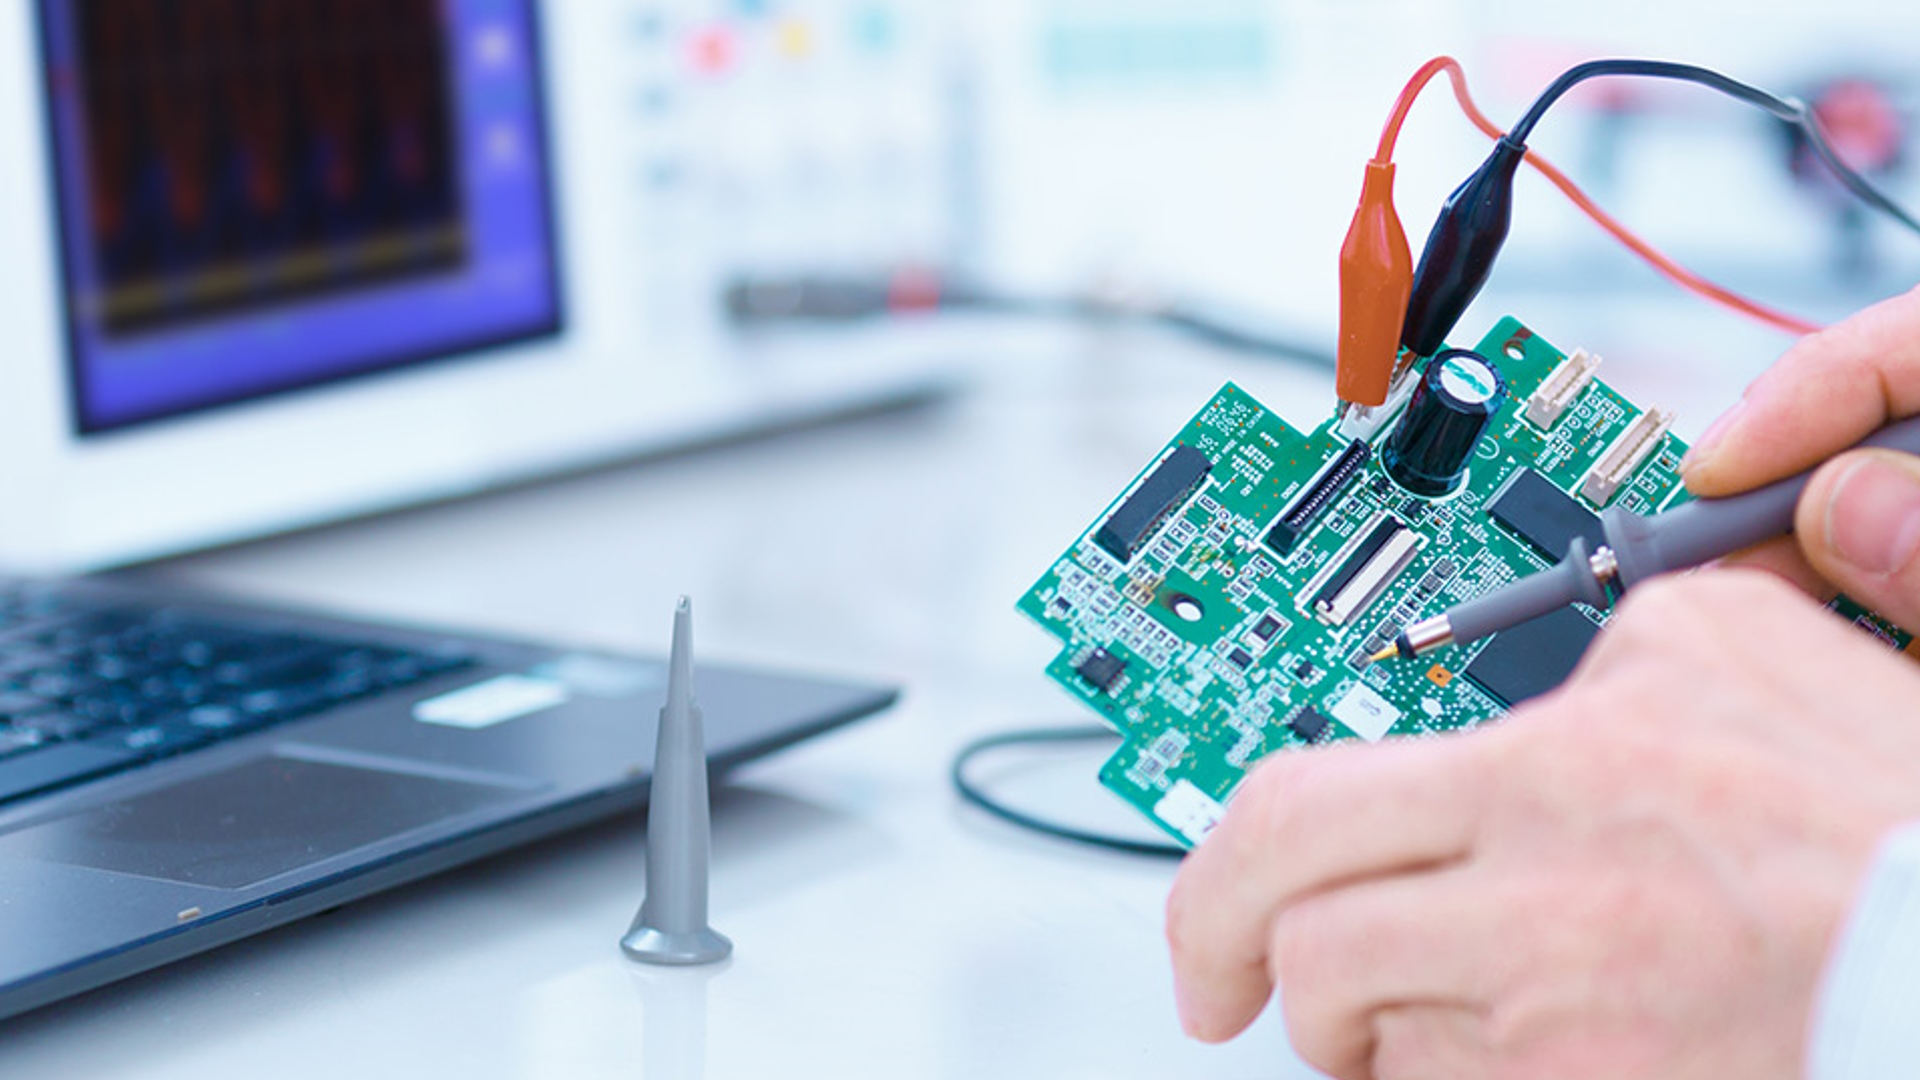
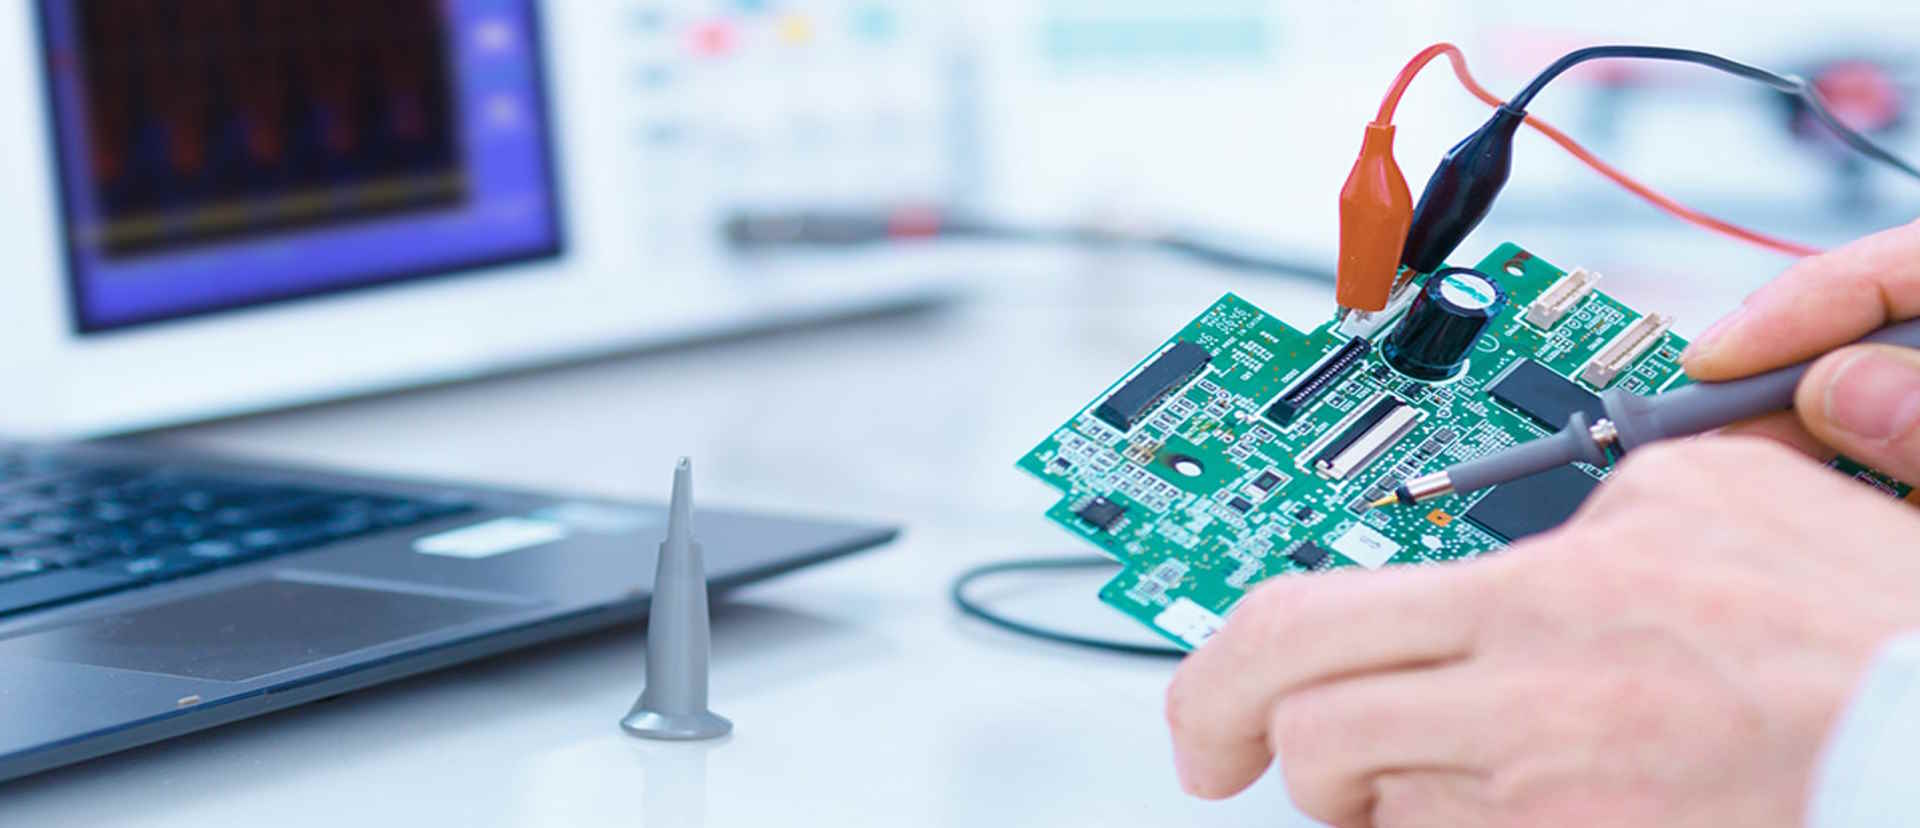
Image Adjustments

diff --git a/about.html b/about.html
@@ -99,15 +99,15 @@
                         <h5 class="fw-bold text-primary text-uppercase">About Us</h5>
                         <h1 class="mb-0">Signum is Formed</h1>
                     </div>
-                    <p class="mb-4">Ed Schwind, Vice President of Signum, </p>
                     <p class="mb-4">Doug Hauck, the President of Signum, has been a consultant in the electronics industry for over 25 years. He has a BSEE from NDSU and specialized in hardware design throughout his career. His experience spans every aspect of electronic hardware, from embedded microcontroller- and DSP-based systems to microwave and optical sensor design. He continues to be involved in all aspects of product development, including research and development, manufacturing, test and measurement, applications, human factors, and marketing to advanced planning and concepts.</p>
+                    <p class="mb-4">Ed Schwind, Vice President of Signum, has 15 years of experience </p>
                     <p class="mb-4">Signum's Fargo, ND Location, has a staff that specializes in embedded systems software as well as cloud services and software. The Fargo staff is the preferred partner for all software-related engineering for data management and visualization. As a certified Verizon Partner, they can provide cellular-based data communications using hardware co-developed and certified with manufacturing capabilities in the Richardton location.</p>
                     <p class="mb-4">In Richardton, ND, Signum has a full-service electronics design and manufacturing facility. The facility and staff are utilized for any custom hardware required by customers. In addition, Doug has developed a relationship with Iridium, a satellite data service provider, allowing Signum to offer satellite connectivity to remote locations.</p>
                     <p class="mb-4">With the combined abilities of both locations, Signum can offer complete solutions. With hardware design, manufacturing, firmware, software, cloud computing, data collection, and many other services, Signum has it all. With the wide range of capabilities, we can offer more than ever to our customers, and with continued growth, who knows what we will offer next!</p>
                 </div>
                 <div class="col-lg-5" style="min-height: 500px;">
                     <div class="position-relative h-100">
-                        <img class="position-absolute w-100 h-100 rounded wow zoomIn" data-wow-delay="0.9s" src="img/about.png" style="object-fit: cover;">
+                        <img class="position-absolute w-100 h-100 rounded wow zoomIn" data-wow-delay="0.9s" src="img/about.png" style="object-fit: cover; max-height: 570px;">
                     </div>
                 </div>
             </div>
